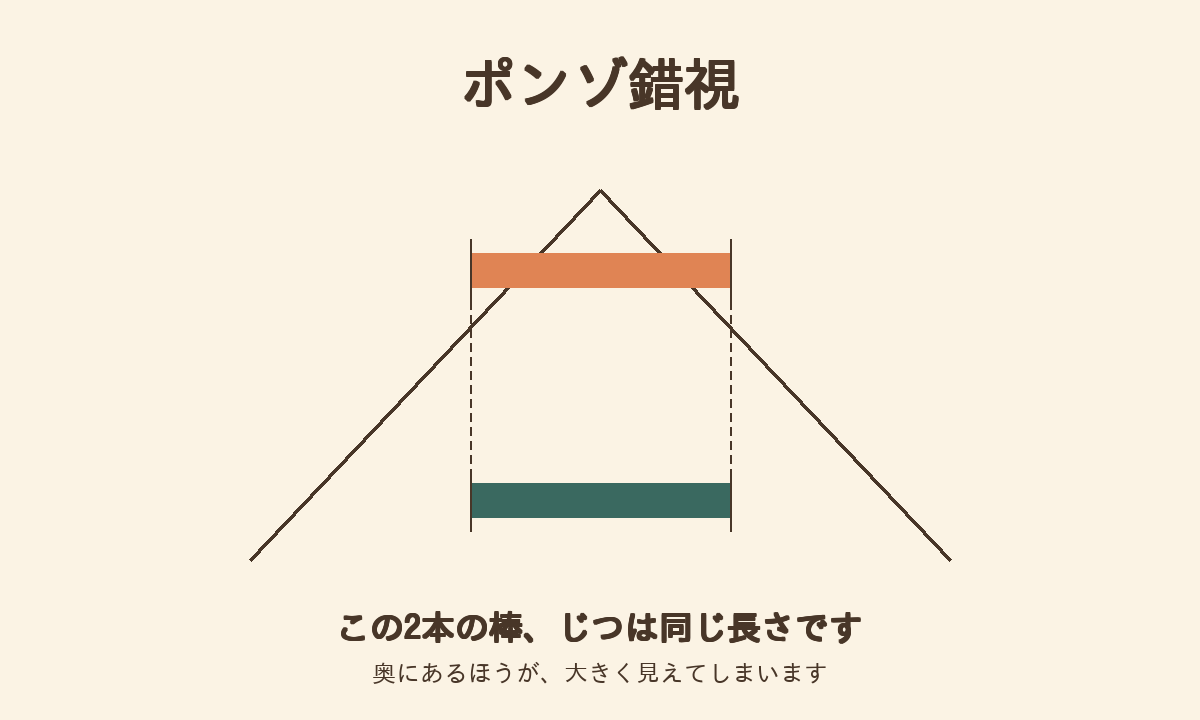
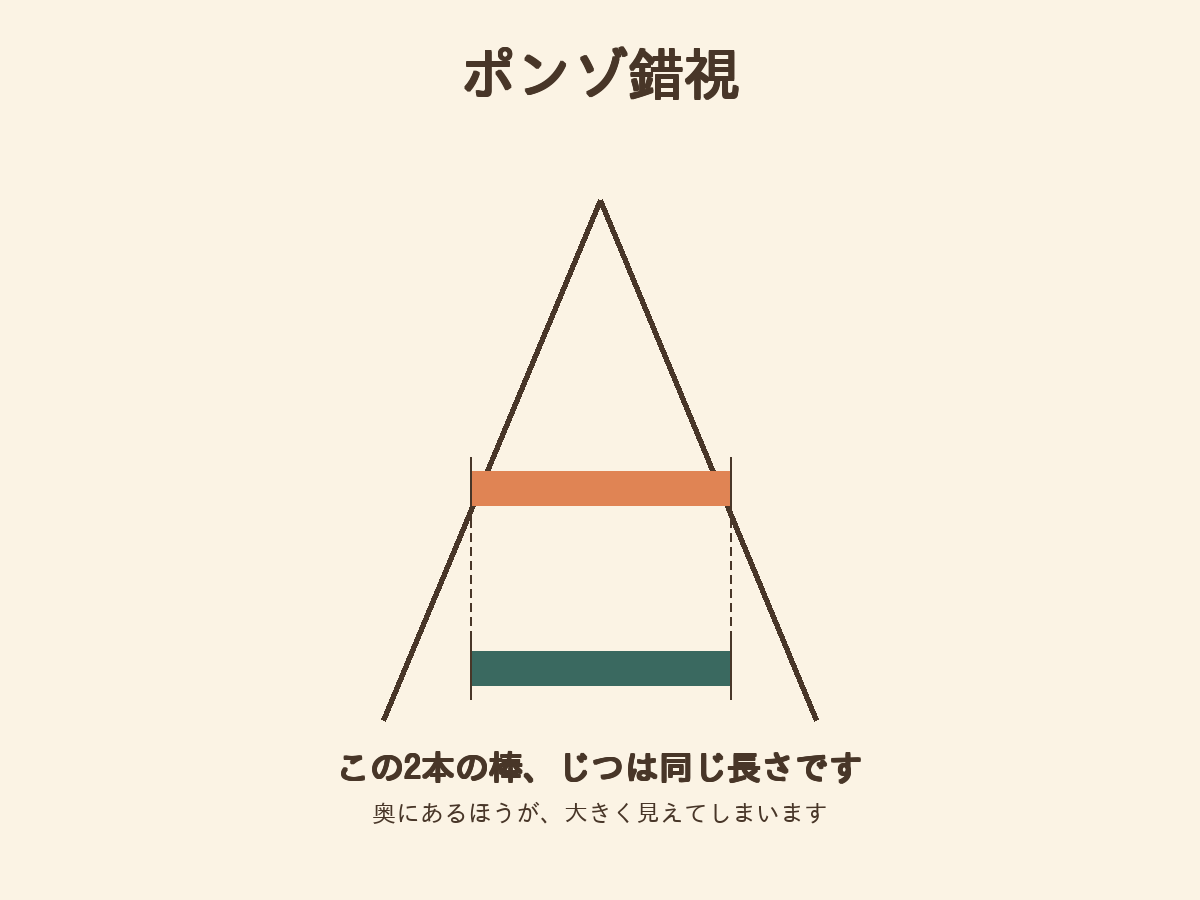
fix: ポンゾ錯視の図を錯視らしく見えるよう再構成
オーナーから「錯視には見えない」との指摘。1回目のコード描画版は、奥の棒と
収束線の間隔・手前の棒と収束線の間隔がどちらも大きく空きすぎており、
2本の棒が収束線とほとんど無関係に浮いて見えていたのが原因と考えた。
奥の棒は収束線にほぼぴったり沿うように、手前の棒も収束線との間隔を
控えめにして再配置(棒の長さは260px/260pxで完全一致のまま維持)。

Claude-Session: https://claude.ai/code/session_01TWidCKxYRSv1cKMf351cv5

diff --git a/docs/gemini-image-prompts-tsuki-no-sakushi.md b/docs/gemini-image-prompts-tsuki-no-sakushi.md
@@ -14,7 +14,7 @@
 | プロフィールアイコン | ✅ 既存の `profile/icon.png`(500×500・正方形、確認済み)をそのまま流用。作り直さない |
 | 記事カバー | ✅ 2回目生成で保存済み(`covers/tsuki-no-sakushi.png`、1280×670)。連続生成の不具合は簡潔化したプロンプトで解消。ただし月の直径がまだ約269px対約200px(約1.3倍差)残っていたため、空高くの月をPythonで269pxに拡大する画像編集を行い、完全に一致させてから保存した |
 | 解説イラスト1(比較対象説: 地平線の月と目印/夜空高くの月の対比) | ✅ 2回目生成で合格・保存済み(`illustrations/tsuki-hikaku-taisho.png`、1200×670)。計測の結果、月の直径は左134px・右135pxでほぼ完全一致。「M」の誤字も消えた |
-| 解説イラスト2(見かけの距離説: ポンゾ錯視の図) | ✅ Geminiでの生成が2回とも棒の長さを一致させられなかったため、方針転換してPythonで直接描画。保存済み(`illustrations/ponzo-sakushi.png`、1200×720、棒の長さは260px/260pxで完全一致) |
+| 解説イラスト2(見かけの距離説: ポンゾ錯視の図) | ✅ Geminiでの生成が2回とも棒の長さを一致させられなかったため、方針転換してPythonで直接描画。保存済み(`illustrations/ponzo-sakushi.png`、1200×900、棒の長さは260px/260pxで完全一致)。初版はオーナーから「錯視に見えない」との指摘を受け、奥の棒を収束線にほぼぴったり沿わせ、手前の棒との間隔も詰めて再構成した |
 | 解説イラスト3(太陽でも同じ現象が起きる対比) | 🔲 プロンプト作成済み・生成待ち(`illustrations/taiyou-sakushi.png`) |
 
 カバー・イラスト1・イラスト2は1回目の生成物をピクセル計測で検証した結果、いずれも「同じ大きさ」という
